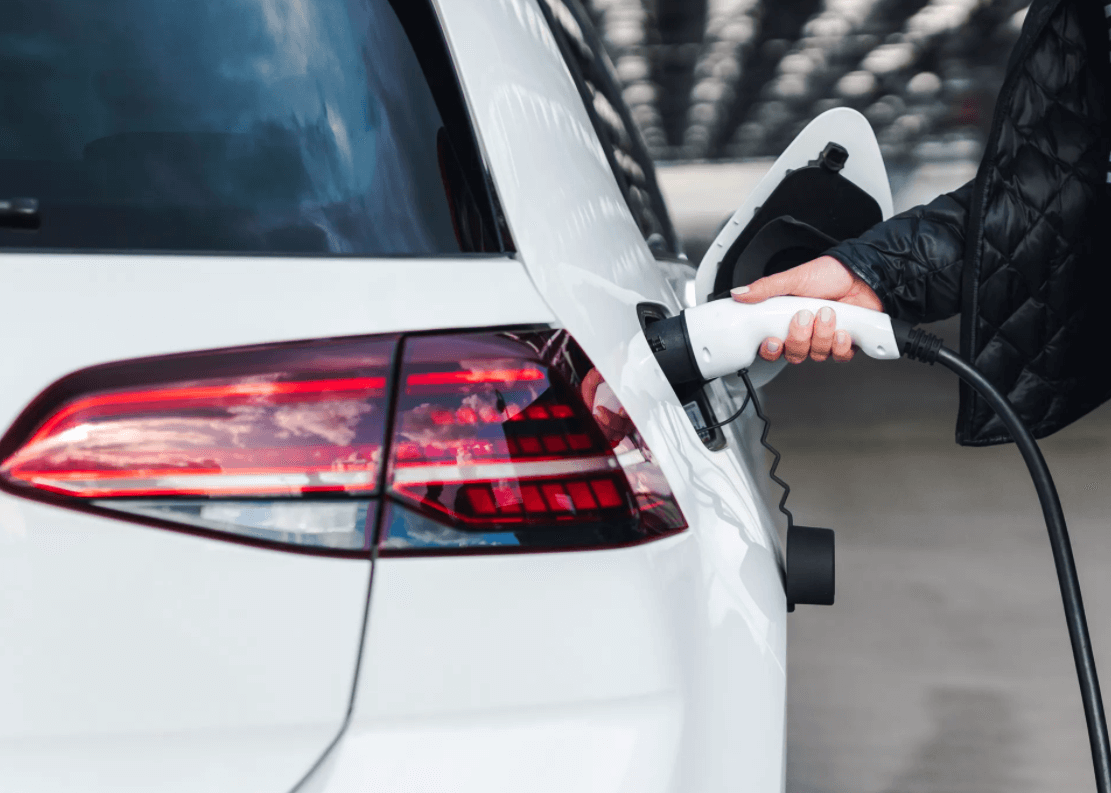
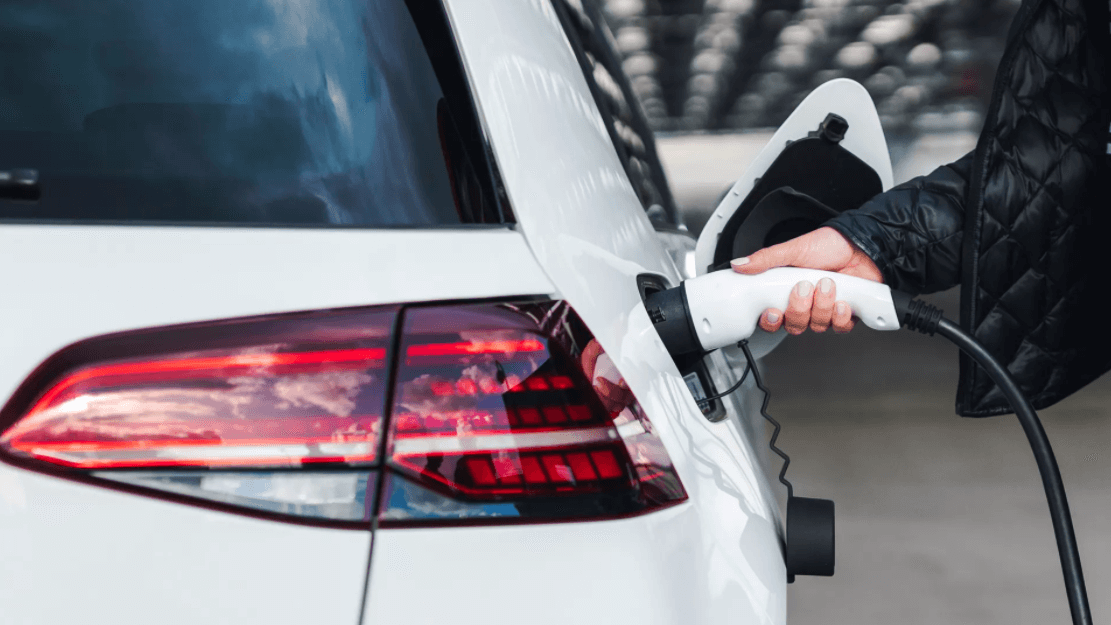
CSS: About

diff --git a/index.html b/index.html
@@ -85,9 +85,9 @@
     </nav>
     <!-- Main -->
     <main calss="container main_page" id="main">
-      <div class="hero">
+      <div class="carousel slide carousel-fade" data-ride="carousel">
         <div class="carousel-inner">
-          <div class="carousel-item active">
+          <div class="carousel-item active data-interval="350">
             <img
               class="d-block w-100"
               src="/img/car_image/main_front.png"
@@ -97,10 +97,10 @@
               <h1 class="display-1">e-Golf</h1>
             </div>
           </div>
-          <div class="carousel-item">
+          <div class="carousel-item data-interval="350">
             <img
               class="d-block w-100"
-              src="/img/car_image/main_img2.jpg"
+              src="/img/car_image/main_img.png"
               alt="main e-golf"
             />
             <div class="carousel-caption text-start">
@@ -108,40 +108,48 @@
             </div>
           </div>
         </div>
+        
       </div>
     </main>
     <!-- About -->
-    <section class="container" id="about">
-      <div class="about__container">
-        <div class="about__eGolf">
-          <img src="/img/car_image/fast_golf.jpg" alt="about e-Golf" />
-          <div class="about__info">
-            <h3>The e-Golf is powerful, <b>efficeint, sustainable.</b></h3>
-            <span
-              >The e-Golf is everything you'd expect from a Volkswagen and more.
+    <section id="about">
+      <h2 class="about__title-head">The e-Golf is powerful, <b>efficeint, sustainable.</b></h2>
+      <p class="about__title-p">The e-Golf is everything you'd expect from a Volkswagen and more.</p>
+      <div class="container-fluid about__container">
+        <div class="row about__eGolf">
+          <div class="col-md-7 col-sm-12 about__img">
+            <img class="img-fluid car_image" src="/img/car_image/comfort.png" alt="about e-Golf" />
+          </div>
+          <div class="col-md-5 col-sm-12 about__info">
+            <div class="info__container">
+              <h2>Experience <b>the future</b> of driving now.</h2>
+            <p
+              >  The e-Golf is everything you'd expect from a Volkswagen and more.
               Exceptional handling, acceleration and grip combined with a
               supremely quiet drive and an impressive range of 144 miles (WLTP).
-              Why wouldn't you go eletric?</span
+              Why wouldn't you go eletric?</p
             >
-            <button>Contact me</button>
+            </div>
+            
+            <button class="button_info">Contact me</button>
           </div>
         </div>
         <div class="about__strength">
           <div class="strength__detail">
             <i class="fas fa-hand-holding-usd"></i>
-            <h3>Economical to run</h3>
+            <h2>Economical to run</h2>
             <span
               >The e-Golf costs 4p per mile versus 14p petrol equivalent.</span
             >
           </div>
           <div class="strength__detail">
             <i class="fas fa-car"></i>
-            <h3>Brilliant to drive</h3>
+            <h2>Brilliant to drive</h2>
             <span>Quiet and spacious, with electric acceleration.</span>
           </div>
           <div class="strength__detail">
             <i class="fas fa-road"></i>
-            <h3>Plenty of range</h3>
+            <h2>Plenty of range</h2>
             <span
               >144 miles WLTP tested range. That's London to Brighton and
               back.</span
@@ -149,7 +157,7 @@
           </div>
           <div class="strength__detail">
             <i class="fas fa-tools"></i>
-            <h3>Easy to maintain</h3>
+            <h2>Easy to maintain</h2>
             <span
               >Simple. Clean. Dependable. Servicing at all Volkswagen
               garages.</span
@@ -159,43 +167,44 @@
       </div>
     </section>
     <!-- Design-->
-    <section class="container" id="design">
+    <section class="container-fluid" id="design">
       <div class="design__container">
         <div class="design__title">
-          <h3>Design</h3>
+          <h2>Design</h2>
           <span
             >Everything you love about the Golf on the outside. Everything
             you'll love about the e‑Golf on the inside.
           </span>
         </div>
         <div class="design__detail">
-          <img src="/img/car_image/design_front.png" alt="e-golf design" />
+          <img class="img-fluid" src="/img/car_image/design_front.png" alt="e-golf design" />
           <div class="design__info">
-            <h4><b>Instantly</b>recognisable</h4>
+            <h2><b>Instantly</b>recognisable</h2>
             <span
               >The e‑Golf retains the classic styling of the Golf, with its own
               electric twist. LED headlights, C-shaped running lights and
               signature blue flash across the front grille.</span
             >
-            <button>Find out more</button>
+            <button class="button_info">Find out more</button>
           </div>
         </div>
       </div>
     </section>
     <!-- Comfort -->
-    <section class="container" id="comfort">
+    <section class="container-fluid" id="comfort">
       <div class="comfort__container">
         <div class="comfort__title">
-          <h3>Comfort</h3>
+          <h2>Comfort</h2>
           <span>Exceptional comfort for an exceptional car </span>
         </div>
         <div class="comfort__detail">
           <img
+            class="img-fluid"
             src="/img/car_image/inside_the_car.png"
             alt="inside image for e-golf "
           />
           <div class="comfort__info">
-            <h4><b>High-spec tech.</b>Total comfort</h4>
+            <h2><b>High-spec tech.</b>Total comfort</h2>
             <span
               >The e‑Golf provides for comfort, convenience and style. The cabin
               is climate controlled and the fully adjustable front seats offer
@@ -211,22 +220,21 @@
       </div>
     </section>
     <!-- Review -->
-    <section class="container" id="review">
+    <section class="container-fluid" id="review">
       <div class="review__container">
         <div class="review__title">
-          <h3>Reviews and awards</h3>
+          <h2>Reviews and awards</h2>
           <span>Read the latest Golf's reviews and awards </span>
         </div>
         <div class="review__detail">
-          <img src="/img/car_image/charging.png" alt="e-golf review" />
+          <img class="img-fluid" src="/img/car_image/charging.png" alt="e-golf review" />
           <div class="review__info">
-            <h4>Review</h4>
+            <h2>Review</h2>
             <span
               >“The Golf succeeds because it works brilliantly as an electric
               car yet it doesn’t compromise on practicality, equipment, or
               driving dynamics.”</span
             >
-            <button>Read the full review on What car?</button>
           </div>
         </div>
       </div>
@@ -234,7 +242,7 @@
     <!-- Contact -->
     <section class="container" id="contact">
       <div class="contact__title">
-        <h3>Contact us</h3>
+        <h2>Contact us</h2>
         <span>How can we help you? </span>
       </div>
       <form class="row g-3">

diff --git a/style.css b/style.css
@@ -1,16 +1,18 @@
 :root {
   /* Color */
-  --color-white: #ffffff;
+  --color-white: #fffbfb;
   --color-blue: #00b1eb;
   --color-dark-blue: #003164;
   --color-deep-blue: #001e50;
+  --color-dark-grey: #4d4d4d;
+  --color-grey: #616161;
+  --color-light-grey: #7c7979;
 
   /* Font size */
   --font-large: 48px;
-  --font-medium: 28px;
-  --font-regular: 18px;
-  --font-small: 16px;
-  --font-micro: 14px;
+  --font-medium: 2.5rem;
+  --font-small: 1.4rem;
+  --font-micro: 1.2rem;
 
   /* Font weight */
   --weight-bold: 700;
@@ -29,8 +31,81 @@
   box-sizing: border-box;
 }
 
+h2 {
+  margin-bottom: 0.7em;
+  font-size: var(--font-medium);
+}
+
+p {
+  margin-bottom: 2em;
+  color: var(--color-grey);
+  font-size: var(--font-small);
+}
+
+.button_info {
+  width: 12rem;
+  height: 3.5rem;
+  background-color: var(--color-deep-blue);
+  color: var(--color-white);
+  font-size: var(--font-micro);
+  border-radius: 25px;
+}
+/* About */
+#about {
+  padding-top: 10rem;
+}
+
+.about__title-head {
+  margin-bottom: 0.5em;
+  text-align: center;
+}
+
+.about__title-p {
+  text-align: center;
+  margin-bottom: 8em;
+}
+
+.about__eGolf {
+  display: flex;
+}
+
+.car_image {
+  width: 100rem;
+  transition: transform 350ms ease-in;
+}
+
+.car_image:hover {
+  transform: scale(1.05);
+}
+
+.about__info {
+  padding: 0 2em 0 2em;
+}
+.info__container {
+  transition: all 300ms ease-out;
+}
+.info__container:hover {
+  color: var(--color-light-grey);
+}
+
 @media only screen and (max-width: 48rem) {
   .carousel-caption {
     transform: translateY(1.5rem);
+  }
+  #about {
+    padding-top: 3rem;
+  }
+  .about__title-p {
+    margin-bottom: 2.5rem;
+  }
+}
+
+@media only screen and (max-width: 64rem) {
+  :root {
+    /* Font size */
+    --font-large: 2.5rem;
+    --font-medium: 2rem;
+    --font-small: 1rem;
+    --font-micro: 0.7rem;
   }
 }

diff --git a/bootstrap_overrides.css b/bootstrap_overrides.css
@@ -1,15 +1,19 @@
 .navbar {
   background-color: var(--color-deep-blue);
-  color: white;
+  color: var(--color-white);
 }
 
 .navbar-brand,
 .navbar-nav .nav-link {
-  color: white;
+  color: var(--color-white);
 }
 
 .carousel-caption {
   right: 10%;
   left: 10%;
   text-align: left;
+}
+
+.container-fluid {
+  padding: 0;
 }
